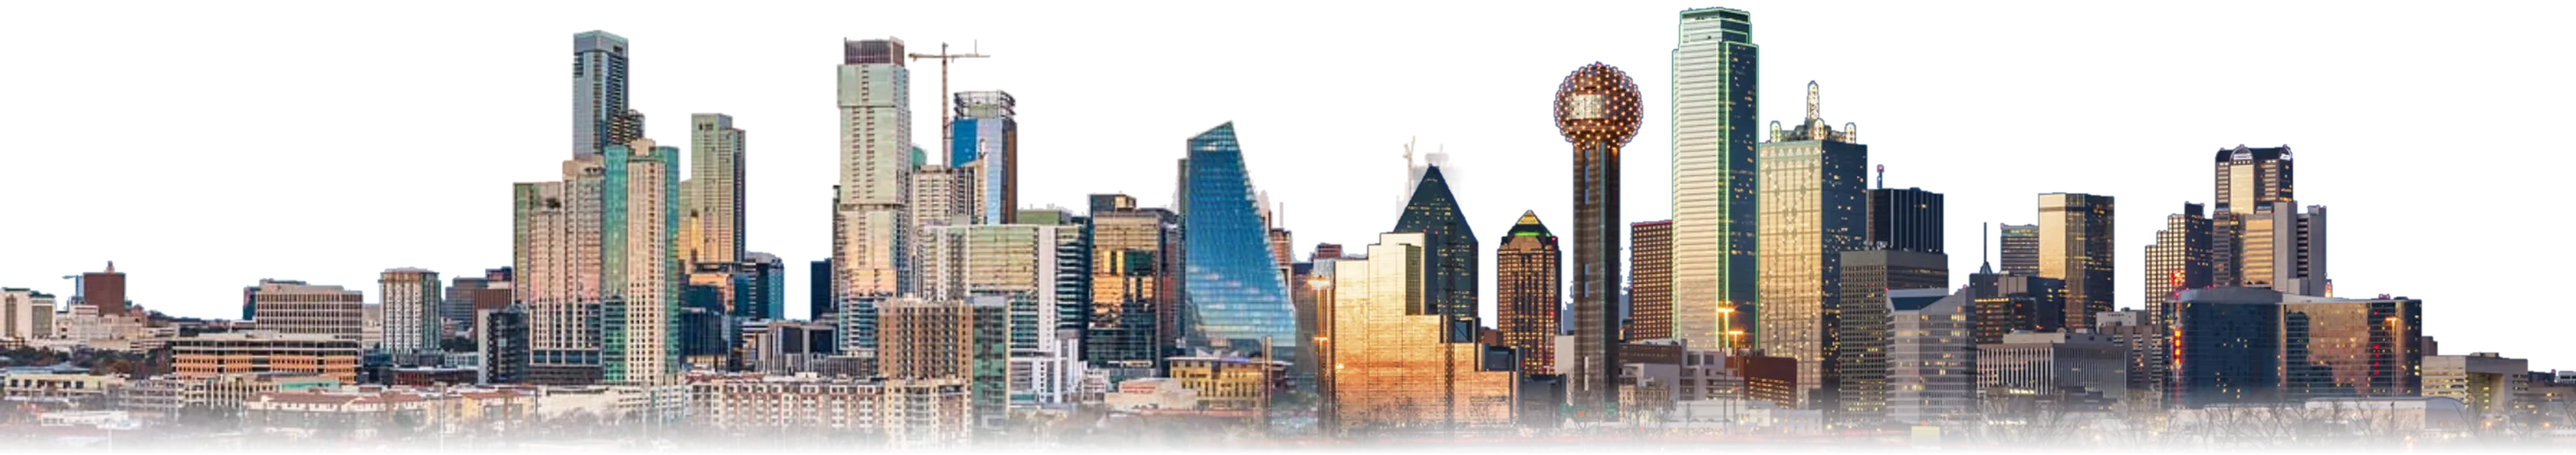
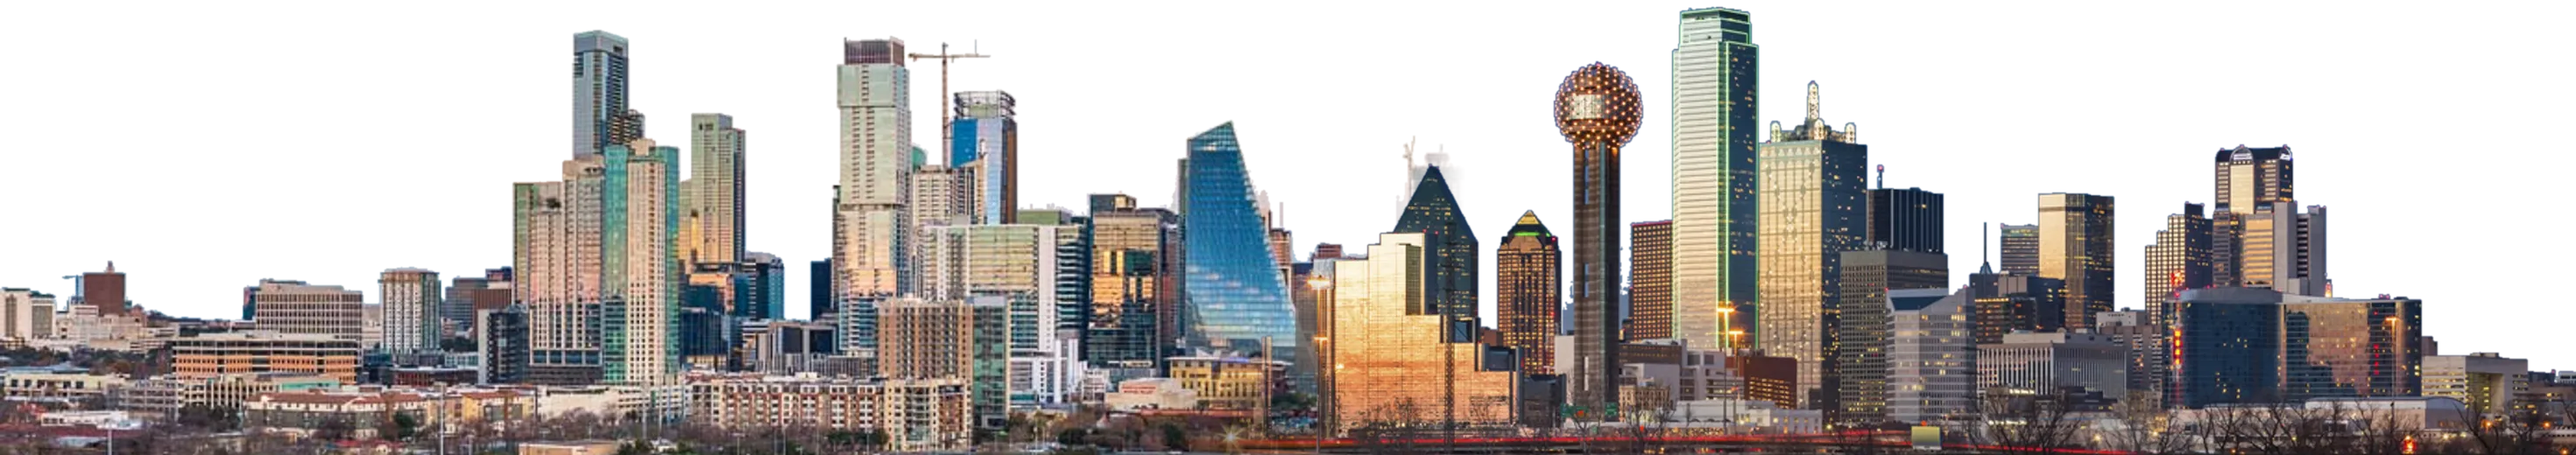
Run the skyline solid to the edges
Drop the fade at the base (in gen-skyline) and at the left and right
ends (the mask in SkylineBand). The skyline now stands on the bottom of
the page and runs edge to edge.

Changed region(s): [[0.0, 0.8308, 1.0, 1.0]]

diff --git a/components/SkylineBand.tsx b/components/SkylineBand.tsx
@@ -13,8 +13,8 @@ const SRC = "/skyline/skyline.webp";
  * two always line up.
  *
  * `cover` + `bottom` means a wide screen shows the whole horizon and a phone
- * crops in on the middle, where Austin hands over to Dallas. A gradient mask
- * fades the two ends so the row never stops on a hard vertical edge.
+ * crops in on the middle, where Austin hands over to Dallas. Nothing fades:
+ * the skyline runs edge to edge and stands solid on the bottom of the page.
  *
  * The skyline is opaque to the lattice behind it: a solid ground-coloured
  * silhouette sits under the tinted photo.
@@ -22,8 +22,6 @@ const SRC = "/skyline/skyline.webp";
  * Purely atmospheric: `aria-hidden`, no alt text.
  */
 export function SkylineBand({ opacity = 0.5 }: { opacity?: number }) {
-  const fade =
-    "linear-gradient(to right, transparent, #000 10%, #000 90%, transparent)";
   // The same file, placed the same way, as a mask.
   const cutout = {
     maskImage: `url(${SRC})`,
@@ -40,7 +38,6 @@ export function SkylineBand({ opacity = 0.5 }: { opacity?: number }) {
     <div
       aria-hidden
       className="pointer-events-none absolute inset-0"
-      style={{ maskImage: fade, WebkitMaskImage: fade }}
     >
       {/*
         A solid ground-coloured copy of the silhouette, so the skyline stands
